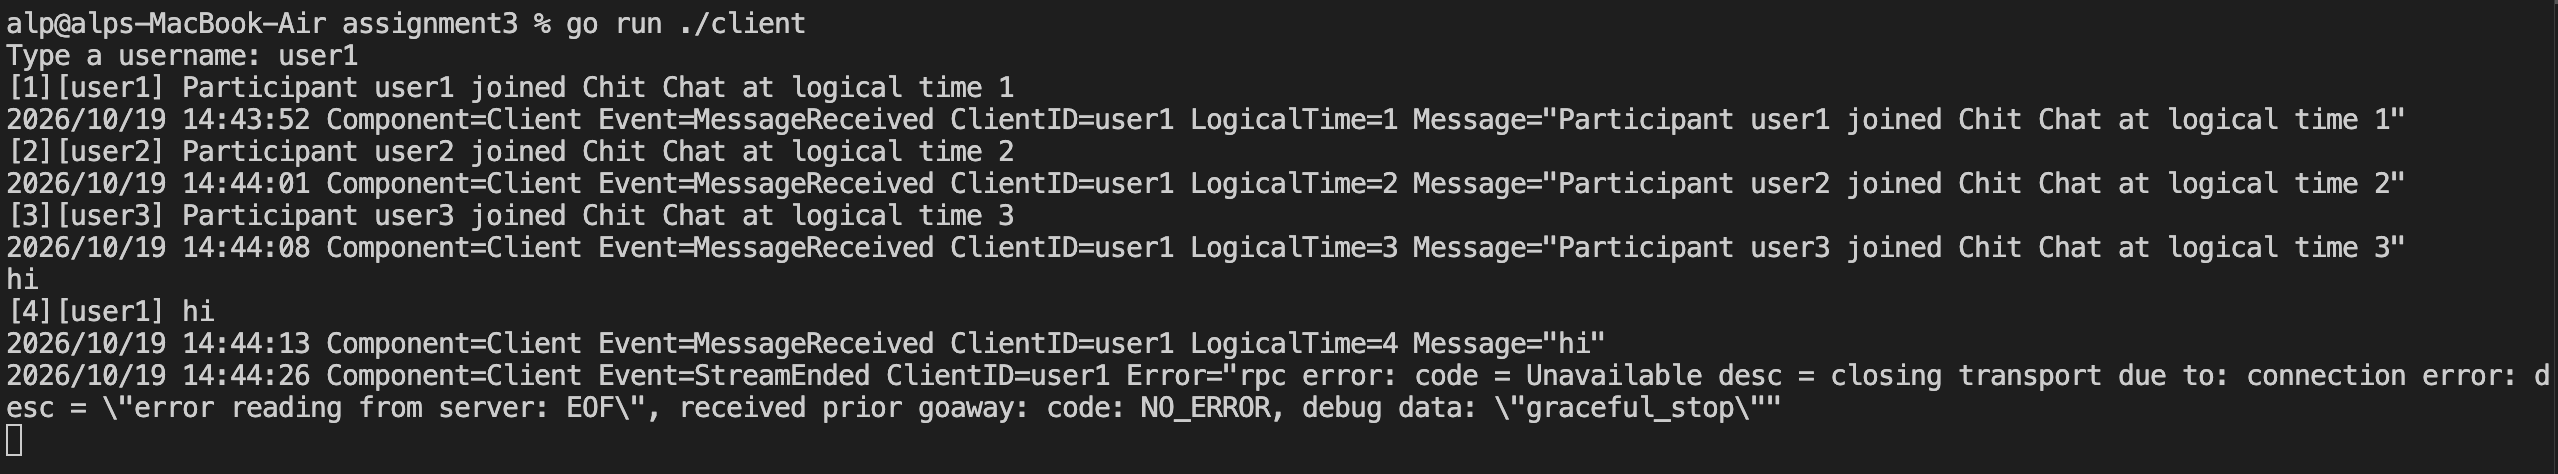
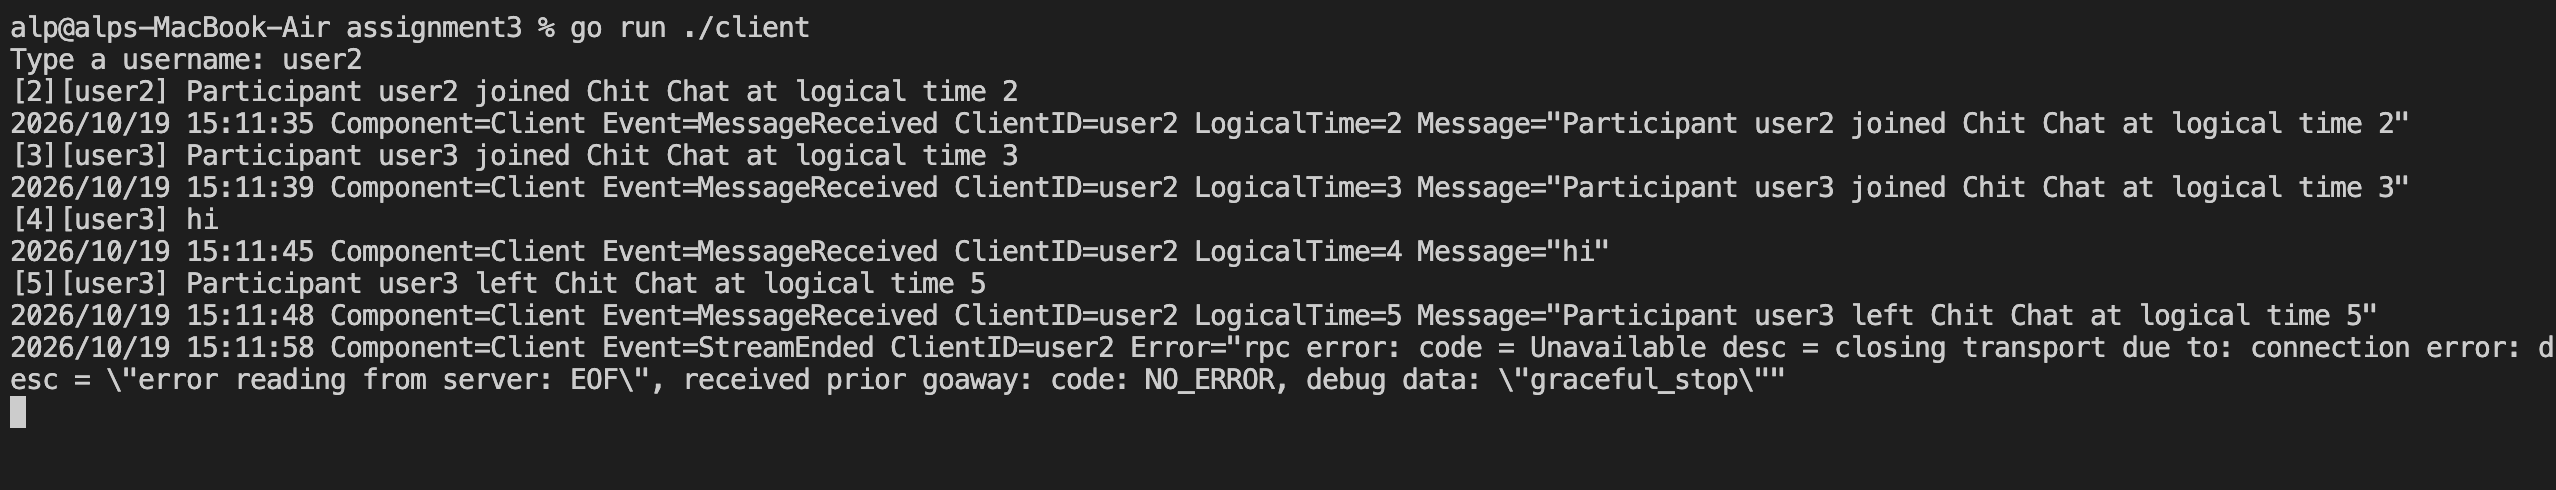
my work so far

Changed region(s): [[0.0, 0.0295, 1.0, 0.8861]]

diff --git a/Ass4_Jan/requester.go b/Ass4_Jan/requester.go
@@ -1,0 +1,101 @@
+package main
+
+import (
+	"Ass4/proto"
+	"context"
+	"log"
+	"sync"
+)
+
+func (node *NodeMemoryStruct) beginRequest() (int64, bool) { //returns timestamp of new req and if its successfull
+
+    // Lock shared memory
+    node.mu.Lock()
+    defer node.mu.Unlock()
+
+    // Only request if currently RELEASED
+    if node.state != "released" {
+        return 0, false
+    }
+
+    // Increment Lamport clock
+    node.t++
+
+    // Save timestamp for this particular request
+    node.requestTime = node.t
+
+    // Change state
+    node.state = "wanted"
+
+    log.Printf(
+        "Node %d: REQUESTING CS, timestamp=%d",
+        node.nodeID,
+        node.requestTime,
+    )
+
+    return node.requestTime, true
+}
+
+func (node *NodeMemoryStruct) requestPermissions(timestamp int64) bool {
+
+    var wg sync.WaitGroup
+
+    // One result for every peer
+    results := make(chan error, len(node.clients))
+
+    for i, client := range node.clients {
+
+        wg.Add(1)
+
+        go func(peerNumber int, peer proto.Ass4Client) {
+            defer wg.Done()
+
+            log.Printf(
+                "Node %d sending REQUEST to peer %d",
+                node.nodeID,
+                peerNumber,
+            )
+
+            _, err := peer.RequestAccess(
+                context.Background(),
+                &proto.ReqData{
+                    NodeId: node.nodeID,
+                    T:      timestamp,
+                },
+            )
+
+            if err != nil {
+                log.Printf(
+                    "Request to peer %d failed: %v",
+                    peerNumber,
+                    err,
+                )
+            } else {
+                log.Printf(
+                    "Node %d received REPLY from peer %d",
+                    node.nodeID,
+                    peerNumber,
+                )
+            }
+
+            results <- err
+
+        }(i+1, client)
+    }
+
+    // Wait until all requests have finished
+    wg.Wait()
+
+    close(results)
+
+    // Check whether every peer granted permission
+    allGranted := true
+
+    for err := range results {
+        if err != nil {
+            allGranted = false
+        }
+    }
+
+    return allGranted
+}

diff --git a/Ass4_Jan/main.go b/Ass4_Jan/main.go
@@ -9,17 +9,21 @@ import (
 	"net"
 	"os"
 
+	"sync"
+
 	"google.golang.org/grpc"
 	"google.golang.org/grpc/credentials/insecure"
 )
-
 var nodePorts = []string{":50051", ":50052", ":50053"}
 
 type NodeMemoryStruct struct {
+	mu sync.Mutex
 	nodeID  int64
-	t       int64
+	t           int64 // Current Lamport clock
+	requestTime int64 // Timestamp of our pending CS request
 	state   string
 	clients []proto.Ass4Client
+	deferred []chan struct{}
 	proto.UnimplementedAss4Server
 }
 
@@ -50,15 +54,11 @@ func runNode(node *NodeMemoryStruct, ownPort string) {
 	log.Printf("clients created: %d", len(node.clients))
 	scanner := bufio.NewScanner(os.Stdin)
 	for scanner.Scan() {
-		log.Println("Enter pressed, requesting access.")
-		for _, client := range node.clients {
-			_, err := client.RequestAccess(context.Background(), &proto.ReqData{NodeId: node.nodeID, T: node.t})
-			if err != nil {
-				log.Printf("RequestAccess failed: %v", err)
-				continue
-			}
-			log.Println("Reply arrived")
-		}
+		log.Println("Enter pressed, testing concurrent requests.")
+
+		granted := node.requestPermissions(1)
+
+		log.Printf("All peers granted: %t", granted)
 	}
 }
 func main() {
